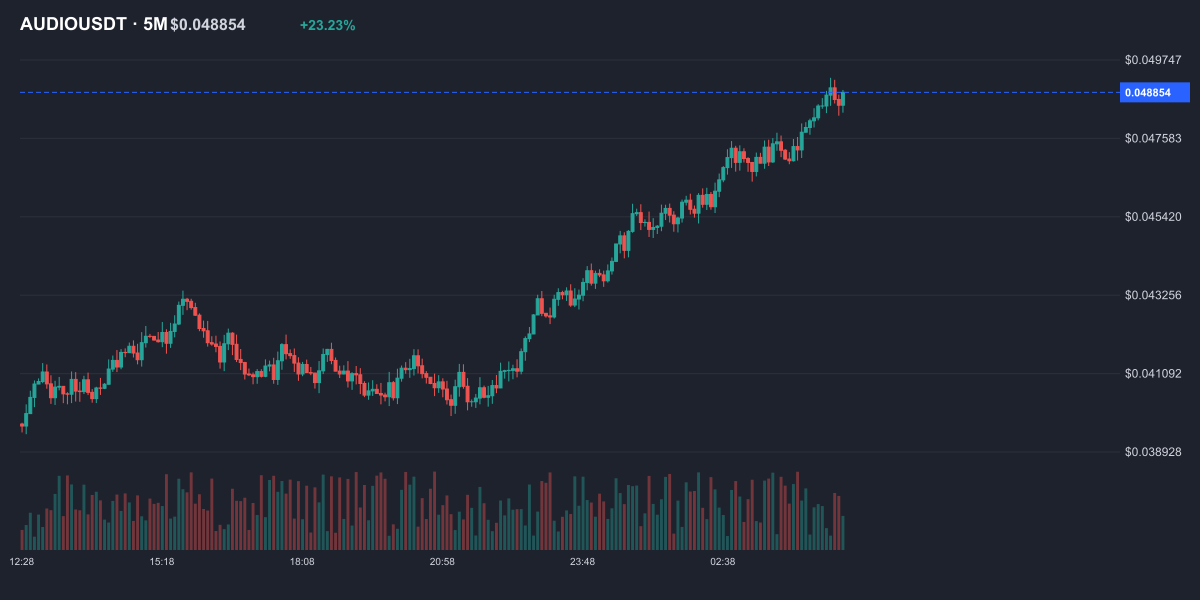
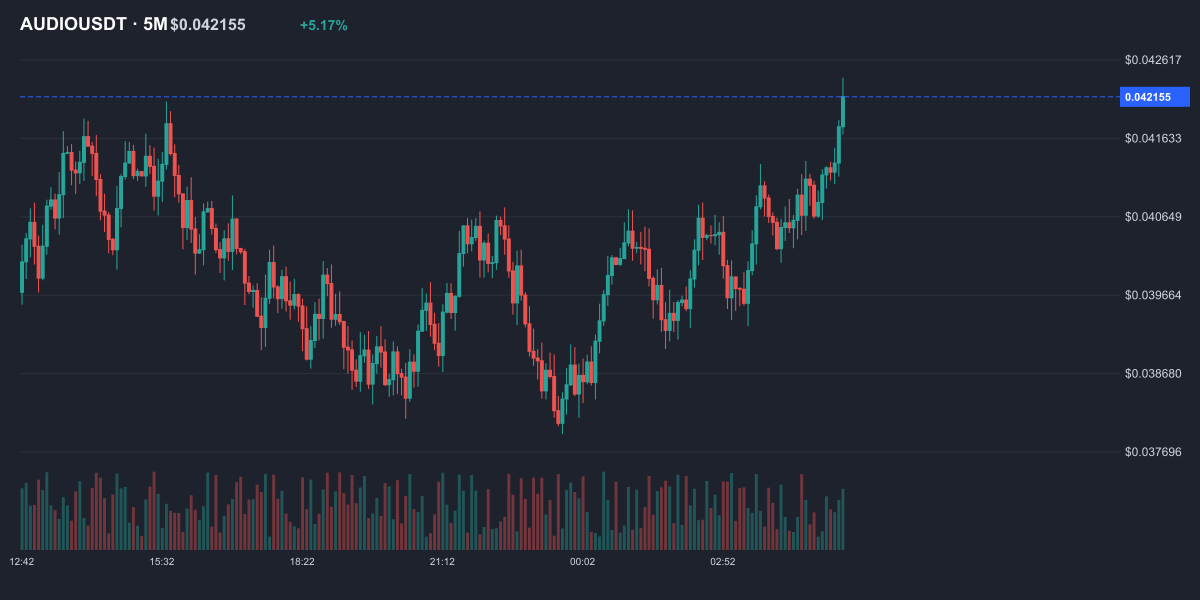
fix candle

diff --git a/services/RealTimeAlertProcessor.js b/services/RealTimeAlertProcessor.js
@@ -865,30 +865,32 @@ class RealTimeAlertProcessor {
         return { triggered: false, reason: "baseline_initialized" };
       }
 
-      console.log(
-        `📊 Baseline: ${originalBaselinePrice}, Live: ${liveData.price}`
-      );
 
       // CRITICAL: Check if baseline needs to be updated based on timeframe
-      // If timeframe interval has passed, update baseline to current live price
+      // 🔥 FIX: Update baseline at CANDLE CLOSE boundaries, not time since last update
+      // Example: For 5MIN, update at 10:00, 10:05, 10:10, etc.
       if (alert.conditions?.changePercent?.timeframe) {
         const timeframe = alert.conditions.changePercent.timeframe;
         const timeframeMs = this.getTimeframeMs(timeframe);
+        const currentTime = Date.now();
+
+        // Calculate current candle start time (aligned to timeframe boundaries)
+        const currentCandleStart = Math.floor(currentTime / timeframeMs) * timeframeMs;
+
+        // Get the candle when baseline was last set
         const baselineTimestamp = alert.baselineTimestamp
           ? new Date(alert.baselineTimestamp).getTime()
-          : Date.now();
-        const currentTime = Date.now();
-        const timeSinceBaseline = currentTime - baselineTimestamp;
+          : 0;
+        const baselineCandleStart = Math.floor(baselineTimestamp / timeframeMs) * timeframeMs;
 
-        // Check if timeframe interval has passed
-        if (timeSinceBaseline >= timeframeMs) {
-          console.log(
-            `🔄 Timeframe interval passed for ${alert.symbol}, updating baseline from ${alert.baselinePrice} to ${liveData.price}`
-          );
+        // 🔥 CRITICAL: Update baseline only when we've moved to a NEW CANDLE
+        // This ensures baseline updates at candle close, not just after X minutes
+        if (currentCandleStart > baselineCandleStart) {
+
 
           // Update baseline to current live price
           alert.baselinePrice = liveData.price;
-          alert.baselineTimestamp = new Date();
+          alert.baselineTimestamp = new Date(currentCandleStart); // Set to candle start for accurate tracking
 
           // Update baseline volume based on smallest volume timeframe (if volume condition exists)
           let updatedVolume = liveData.volume || liveData.volume24h;
@@ -900,10 +902,11 @@ class RealTimeAlertProcessor {
               return tfMs < minMs ? tf : min;
             });
             const smallestTimeframeMs = this.getTimeframeMs(smallestTimeframe);
+            const smallestCandleStart = Math.floor(currentTime / smallestTimeframeMs) * smallestTimeframeMs;
+            const baselineSmallestCandle = Math.floor(baselineTimestamp / smallestTimeframeMs) * smallestTimeframeMs;
 
-            if (timeSinceBaseline >= smallestTimeframeMs) {
+            if (smallestCandleStart > baselineSmallestCandle) {
               alert.baselineVolume = updatedVolume;
-              console.log(`📊 Volume baseline updated (${smallestTimeframe}): ${alert.baselineVolume}`);
             }
           } else {
             alert.baselineVolume = updatedVolume;
@@ -913,7 +916,7 @@ class RealTimeAlertProcessor {
           Alert.findByIdAndUpdate(alert._id, {
             baselinePrice: liveData.price,
             baselineVolume: alert.baselineVolume,
-            baselineTimestamp: new Date(),
+            baselineTimestamp: new Date(currentCandleStart),
           }).catch((error) => {
             console.error(
               `❌ Error updating baseline for ${alert.symbol}:`,
@@ -924,16 +927,16 @@ class RealTimeAlertProcessor {
           // CRITICAL FIX: Update in-memory cache with baseline AND preserve lock
           const alertsForSymbol = this.activeAlerts.get(alert.symbol);
           if (alertsForSymbol) {
-            const alertIndex = alertsForSymbol.findIndex(
-              (a) => a._id.toString() === alert._id.toString()
-            );
-            if (alertIndex !== -1) {
+            // 🔥 OPTIMIZATION: Use Map for O(1) lookup
+            const alertMap = new Map(alertsForSymbol.map((a, idx) => [a._id.toString(), idx]));
+            const alertIndex = alertMap.get(alert._id.toString());
+            if (alertIndex !== undefined) {
               // Update with new baseline AND preserve conditions (lock)
               alertsForSymbol[alertIndex] = {
                 ...alertsForSymbol[alertIndex],
                 baselinePrice: liveData.price,
                 baselineVolume: liveData.volume || liveData.volume24h,
-                baselineTimestamp: new Date(),
+                baselineTimestamp: new Date(currentCandleStart),
                 conditions: alert.conditions, // Preserve lock
               };
             }
@@ -944,7 +947,7 @@ class RealTimeAlertProcessor {
             ...alert,
             baselinePrice: liveData.price,
             baselineVolume: liveData.volume || liveData.volume24h,
-            baselineTimestamp: new Date(),
+            baselineTimestamp: new Date(currentCandleStart),
           }).catch((error) => {
             console.error(
               `❌ Error updating alert in Redis cache for ${alert.symbol}:`,
@@ -952,14 +955,12 @@ class RealTimeAlertProcessor {
             );
           });
 
-          console.log(
-            `✅ Baseline updated in memory and Redis cache for ${alert.symbol}`
-          );
+
         }
       }
 
       // ✅ INDEPENDENT VOLUME BASELINE UPDATE
-      // Volume baseline updates on smallest volume timeframe interval
+      // 🔥 FIX: Volume baseline updates at CANDLE CLOSE of smallest volume timeframe
       // This runs SEPARATELY from price baseline update
       if (alert.conditions?.volume?.timeframes?.length > 0) {
         const volumeTimeframes = alert.conditions.volume.timeframes;
@@ -969,43 +970,48 @@ class RealTimeAlertProcessor {
           return tfMs < minMs ? tf : min;
         });
         const smallestVolumeTimeframeMs = this.getTimeframeMs(smallestVolumeTimeframe);
+        const currentTime = Date.now();
+
+        // Calculate current volume candle start (aligned to smallest timeframe)
+        const currentVolumeCandleStart = Math.floor(currentTime / smallestVolumeTimeframeMs) * smallestVolumeTimeframeMs;
 
         // Get volume baseline timestamp (separate from price baseline)
         const volumeBaselineTimestamp = alert.volumeBaselineTimestamp
           ? new Date(alert.volumeBaselineTimestamp).getTime()
-          : (alert.baselineTimestamp ? new Date(alert.baselineTimestamp).getTime() : Date.now());
+          : (alert.baselineTimestamp ? new Date(alert.baselineTimestamp).getTime() : 0);
 
-        const timeSinceVolumeBaseline = Date.now() - volumeBaselineTimestamp;
+        // Get the candle when volume baseline was last set
+        const volumeBaselineCandleStart = Math.floor(volumeBaselineTimestamp / smallestVolumeTimeframeMs) * smallestVolumeTimeframeMs;
 
-        // Update volume baseline if smallest timeframe interval has passed
-        if (timeSinceVolumeBaseline >= smallestVolumeTimeframeMs) {
+        // 🔥 CRITICAL: Update volume baseline only when we've moved to a NEW CANDLE
+        if (currentVolumeCandleStart > volumeBaselineCandleStart) {
           const newVolumeBaseline = liveData.quoteVolume || liveData.volume24h || liveData.volume;
 
-          console.log(`📊 Volume baseline UPDATE (${smallestVolumeTimeframe}): ${alert.baselineVolume?.toLocaleString()} → ${newVolumeBaseline?.toLocaleString()} USDT`);
+
 
           // Update in-memory
           alert.baselineVolume = newVolumeBaseline;
-          alert.volumeBaselineTimestamp = new Date();
+          alert.volumeBaselineTimestamp = new Date(currentVolumeCandleStart);
 
-          // Update in-memory cache
+          // Update in-memory cache using Map for O(1) lookup
           const alertsForSymbol = this.activeAlerts.get(alert.symbol);
           if (alertsForSymbol) {
-            const alertIndex = alertsForSymbol.findIndex(
-              (a) => a._id.toString() === alert._id.toString()
-            );
-            if (alertIndex !== -1) {
+            const alertMap = new Map(alertsForSymbol.map((a, idx) => [a._id.toString(), idx]));
+            const alertIndex = alertMap.get(alert._id.toString());
+            if (alertIndex !== undefined) {
               alertsForSymbol[alertIndex].baselineVolume = newVolumeBaseline;
-              alertsForSymbol[alertIndex].volumeBaselineTimestamp = new Date();
+              alertsForSymbol[alertIndex].volumeBaselineTimestamp = new Date(currentVolumeCandleStart);
             }
           }
 
           // Update in database (non-blocking)
           Alert.findByIdAndUpdate(alert._id, {
             baselineVolume: newVolumeBaseline,
-            volumeBaselineTimestamp: new Date(),
+            volumeBaselineTimestamp: new Date(currentVolumeCandleStart),
           }).catch((error) => {
             console.error(`❌ Error updating volume baseline for ${alert.symbol}:`, error.message);
           });
+
         }
       }
 